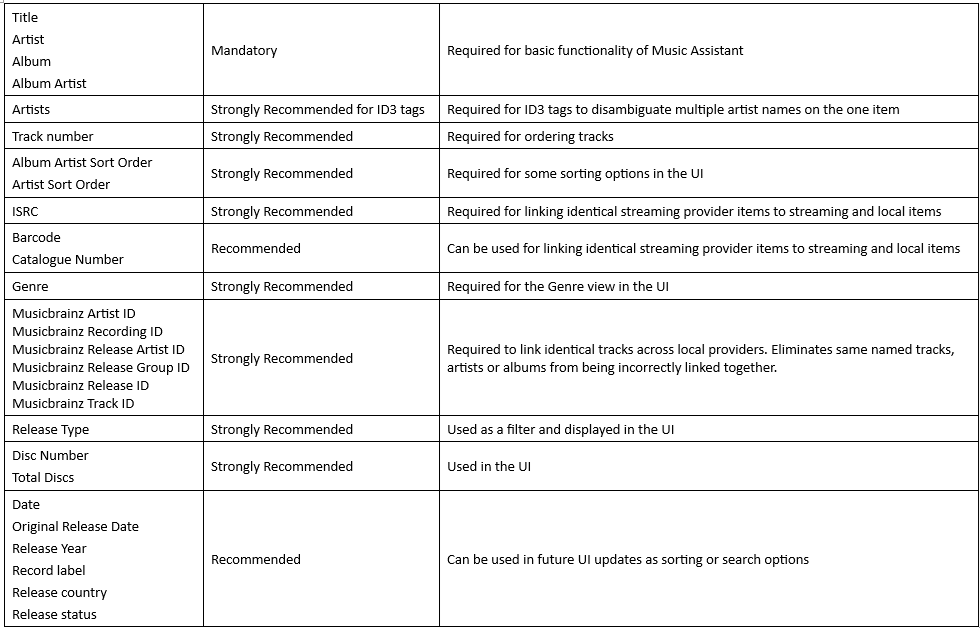
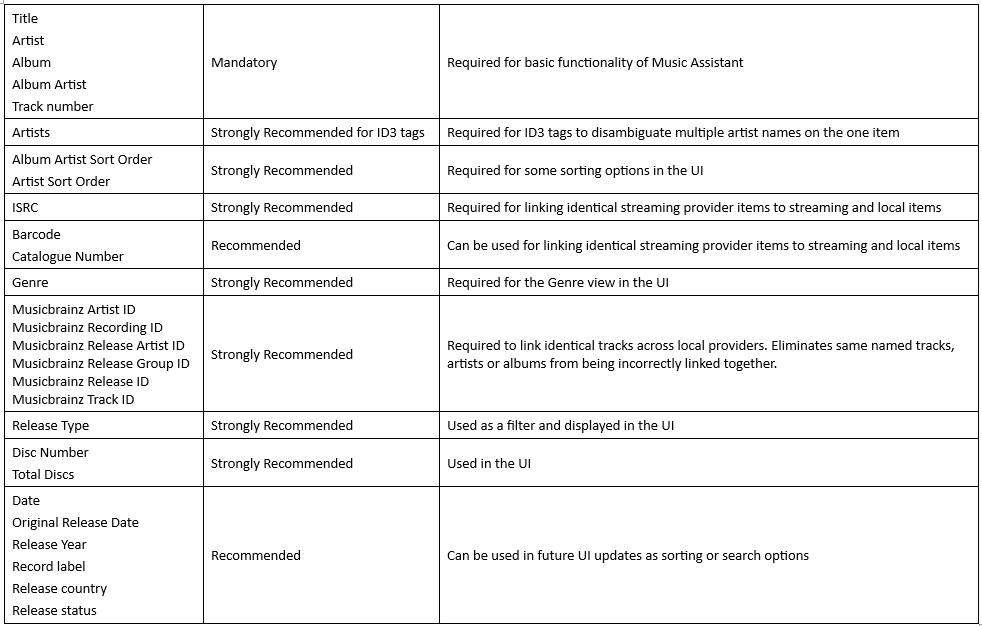
Merge main into beta (#593)
* Add stereo pair info

* Add stereo pair link

* Fix typo

* Add files via upload

* Revert

* Various minor fixes (#592)

* typo

* Radio bit depth

* Add mandatory track number to tag table (#589)

Add files via upload

---------

diff --git a/src/content/docs/audiopipeline.md b/src/content/docs/audiopipeline.md
@@ -25,6 +25,10 @@ The Output section is then shown which, in this example, is simple and just show
 MA, by default, sends lossless audio to the player. The exact codec, sample rate or bit depth that are sent to the player depends on the player / output protocol and is always shown. Changes to the original audio quality may occur if the MP3 option has been selected in the player settings (See the [Groups](#groups) example below) or if the audio is resampled to match the players maximum or native sample rate or bit depth. PCM could be sent to the player although typically FLAC is used to save some bandwidth.
 
 The maximum sample rate that can be expected can be found in the [Player Providers summary table](/player-support/). This can be further limited if changes were made to the default options for the player's `Sample Rates Supported by this Player` advanced setting.
+
+> [!NOTE]
+> Radio streams will have their bit depth reduced to 16 due to incompatabilities with some players
+
 ***************************************************************
 ## Digital Signal Processing
 <img src="/assets/screenshots/audiopipeline-dsp.png" alt="image" style="width: 500px;"  loading="lazy" />

diff --git a/src/content/docs/usage.md b/src/content/docs/usage.md
@@ -80,7 +80,7 @@ Radio Mode works differently when starting from an artist. For an artist in the 
 
 ## Playlists
 
-Playlists must be stored on a source. A music source's playlist can only contain tracks from that source. However, MA has a built-in provider with the ability to create playlists that have tracks from multiple music sources. In this case the playlist will be stored solely within the MA database. These options are automtically presented in the Add to Playlist dialog.
+Playlists must be stored on a source. A music source's playlist can only contain tracks from that source. However, MA has a built-in provider with the ability to create playlists that have tracks from multiple music sources. In this case the playlist will be stored solely within the MA database. These options are automatically presented in the Add to Playlist dialog.
 
 Playlists can be created or added to from various menus in the different views. They can also be created in the Playlist view by clicking on the icon in the top right.
 

diff --git a/src/content/docs/faq/how-to.md b/src/content/docs/faq/how-to.md
@@ -275,3 +275,7 @@ Playlists will be played in the order that they were created. Changing the displ
 ## Create Multiple ShairportSync-Instances on the same Host
 
 A tutorial is available <a href="https://github.com/orgs/music-assistant/discussions/3562" target="_blank" rel="noopener noreferrer">here</a>
+
+## Create a Stereo Pair
+
+If a [Player Provider](/player-support/) supports stereo pairs natively, and these can be setup in the native app, and MA can detect these unique "players" then this should work. Otherwise, for the player providers that support perfect sync and show the `Output Channel Mode` in the Protocol Settings for the individual player then each player of the stereo pair can be assigned an individual channel and then the two players grouped as a [Sync Group](/faq/groups/#sync-groups).

diff --git a/src/content/docs/player-support/airplay.md b/src/content/docs/player-support/airplay.md
@@ -11,7 +11,7 @@ Music Assistant has support for AirPlay based devices which support <a href="htt
 - AirPlay devices are auto detected in Music Assistant, plug and play
 - AirPlay devices will play in sync, even when there is a combination of AirPlay 1 (RAOP) and AirPlay 2 devices in the sync group
 - Audio quality is lossless 44.1 kHz/16bits PCM and optionally compressed as (lossless) ALAC
-- The player settings allow configuration of stereo pairs of speakers
+- The player settings allow configuration of [stereo pairs](/faq/how-to/#create-a-stereo-pair) of speakers
 
 ## Protocol Settings
 
